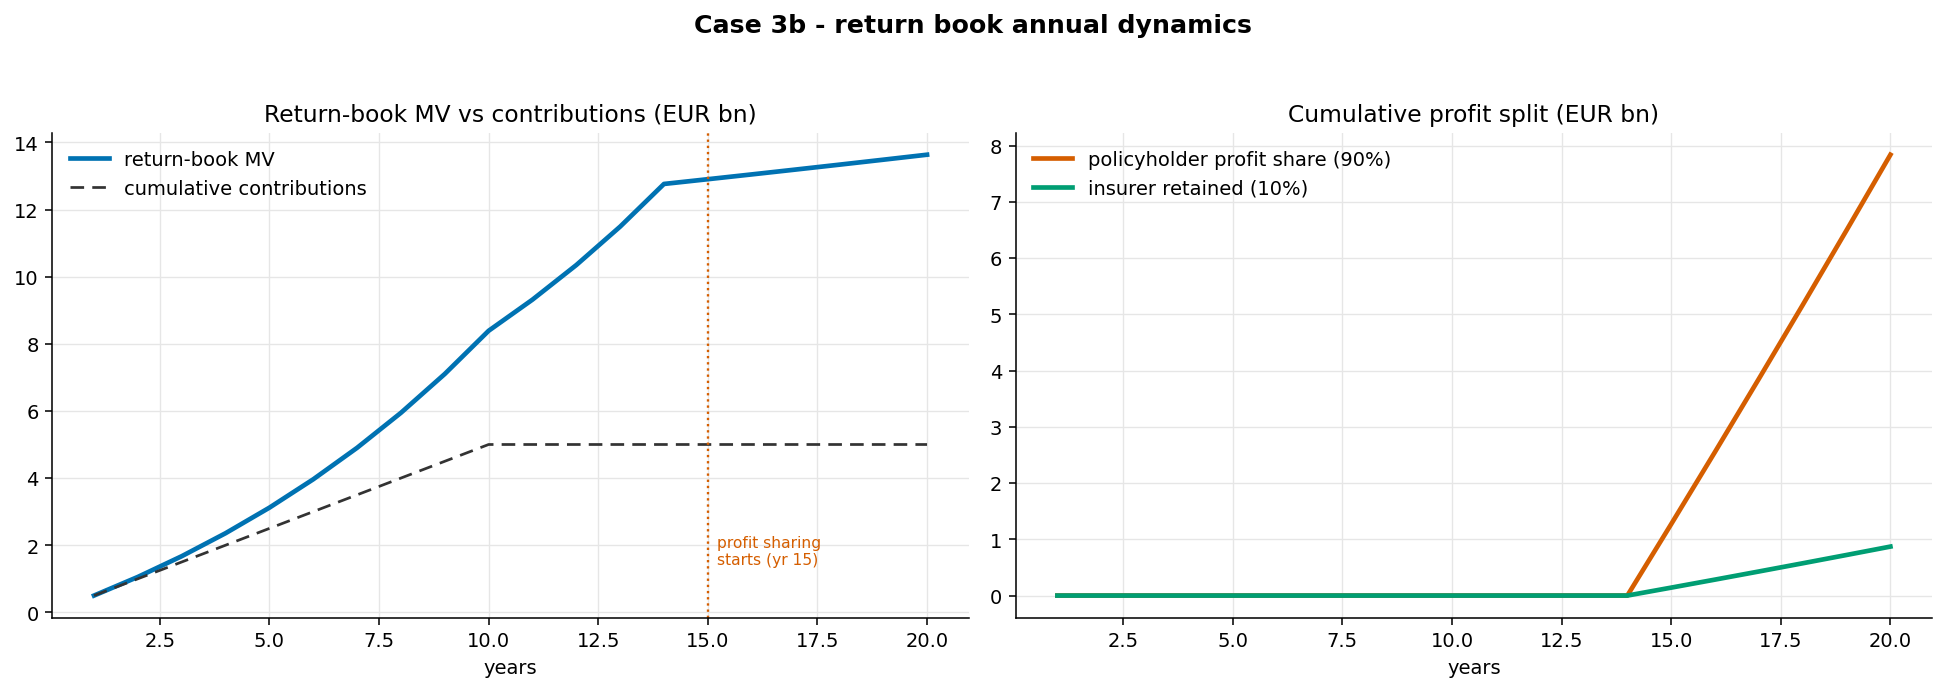
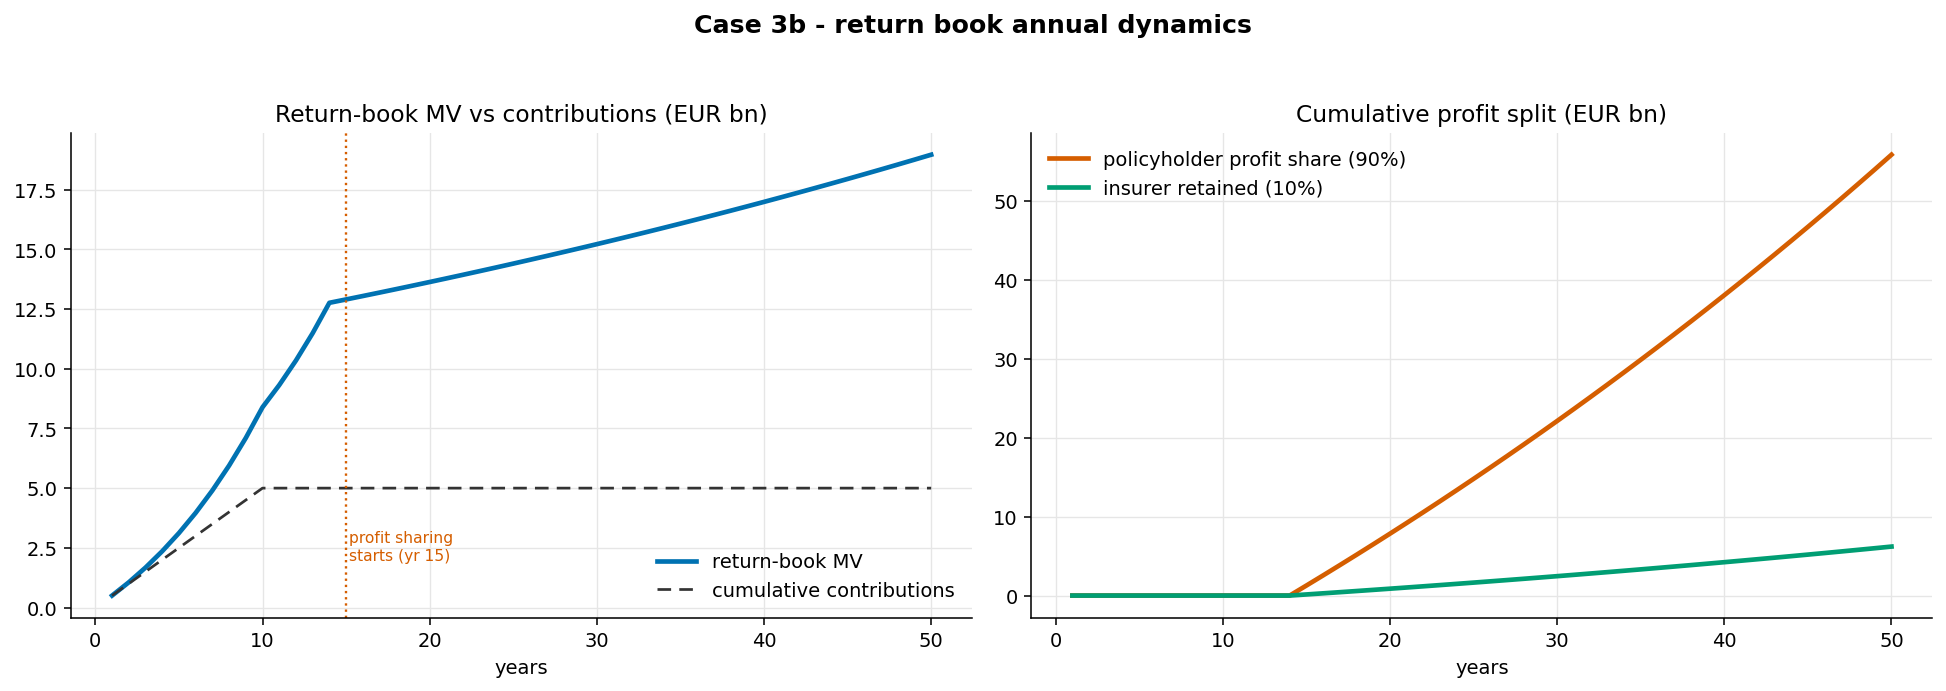
Case 3b: extend the return-book profit-share projection to year 50
return_book.RBConfig.horizon_years 20 -> 50, so payout-phase 90/10 sharing runs
the full pension tail (years 15-50). The deployed return-book size for the VaR
(projected_book_mv, year-10 pre-sharing MV = EUR 8.39bn) is unchanged.

Note: this is an RSP asset-side deterministic projection (benefit outflows are
paid from the LMP and not modelled here); the 50-year figures compound the
trailing historical return and are illustrative, not a forecast.

diff --git a/Case 3/return_book.py b/Case 3/return_book.py
@@ -51,7 +51,7 @@ class RBConfig:
     contribution_per_year_eur: float = 0.5 * EUR_BN
     contribution_years: int = 10
     rebalance_per_year: int = 1                 # annual, at year end
-    horizon_years: int = 20                     # accumulation (10) + bridge (11-14) + payout-phase sharing (15-20)
+    horizon_years: int = 50                     # accumulation (1-10) + bridge (11-14) + payout-phase sharing (15-50)
     profit_share_policyholder: float = 0.90     # requirement
     profit_share_start_year: float = 15.0       # no sharing before benefits begin
     weight_set: str = "Aggressive_Diversified"
@@ -175,6 +175,8 @@ def _report_and_chart(df: pd.DataFrame, rb: RBConfig) -> None:
     end_mv = df["mv_total"].iloc[-1]
     L = [
         "# Case 3b - return book: annual rebalancing + 90/10 profit sharing\n",
+        f"_RSP asset side only, projected to year {int(df.index.max())}; benefit "
+        f"outflows are paid from the LMP and are not shown here._\n",
         f"Year-end rebalancing to {rb.weight_set} ({rb.rebalance_per_year}x / "
         f"year). **Profit sharing only from year {rb.profit_share_start_year:.0f}** "
         f"(when benefits begin): years 1-{rb.profit_share_start_year-1:.0f} the "

diff --git a/Case 3/results_var/RETURN_BOOK_REPORT.md b/Case 3/results_var/RETURN_BOOK_REPORT.md
@@ -1,14 +1,16 @@
 # Case 3b - return book: annual rebalancing + 90/10 profit sharing
 
+_RSP asset side only, projected to year 50; benefit outflows are paid from the LMP and are not shown here._
+
 Year-end rebalancing to Aggressive_Diversified (1x / year). **Profit sharing only from year 15** (when benefits begin): years 1-14 the whole return compounds in the book, un-shared; from year 15 on, 90% of each year's investment profit is paid to policyholders (equal EUR sold from every sleeve), 10% retained. Deterministic per-sleeve annual returns from the weekly history.
 
 | | EUR bn |
 |---|--:|
 | contributions paid in (10 x 0.5) | 5.00 |
 | **return-book MV, end of accumulation (yr 10, pre-sharing)** | **8.39** |
-| return-book MV, end of projection (yr 20) | 13.63 |
-| cumulative policyholder profit share (yr 15+) | 7.84 |
-| cumulative insurer retained (10%) | 0.87 |
-| naive fully-reinvested book, no sharing ever | 23.95 |
+| return-book MV, end of projection (yr 50) | 18.96 |
+| cumulative policyholder profit share (yr 15+) | 55.82 |
+| cumulative insurer retained (10%) | 6.20 |
+| naive fully-reinvested book, no sharing ever | 557.88 |
 
 No profit share is taken before benefits begin, so the whole accumulation return compounds: the deployed return book is the **yr-10 pre-sharing MV (EUR 8.39bn)** - `case3_model` uses this when `return_book_mode='projected'`.  From year 15 the 90% is a pass-through: it leaves the book (equal EUR sold from each sleeve) and is credited to policyholders, so it does not sit on the insurer's asset side; only the retained 10% keeps compounding.  Losses in the payout phase carry forward and net against future profit before any share is paid.
